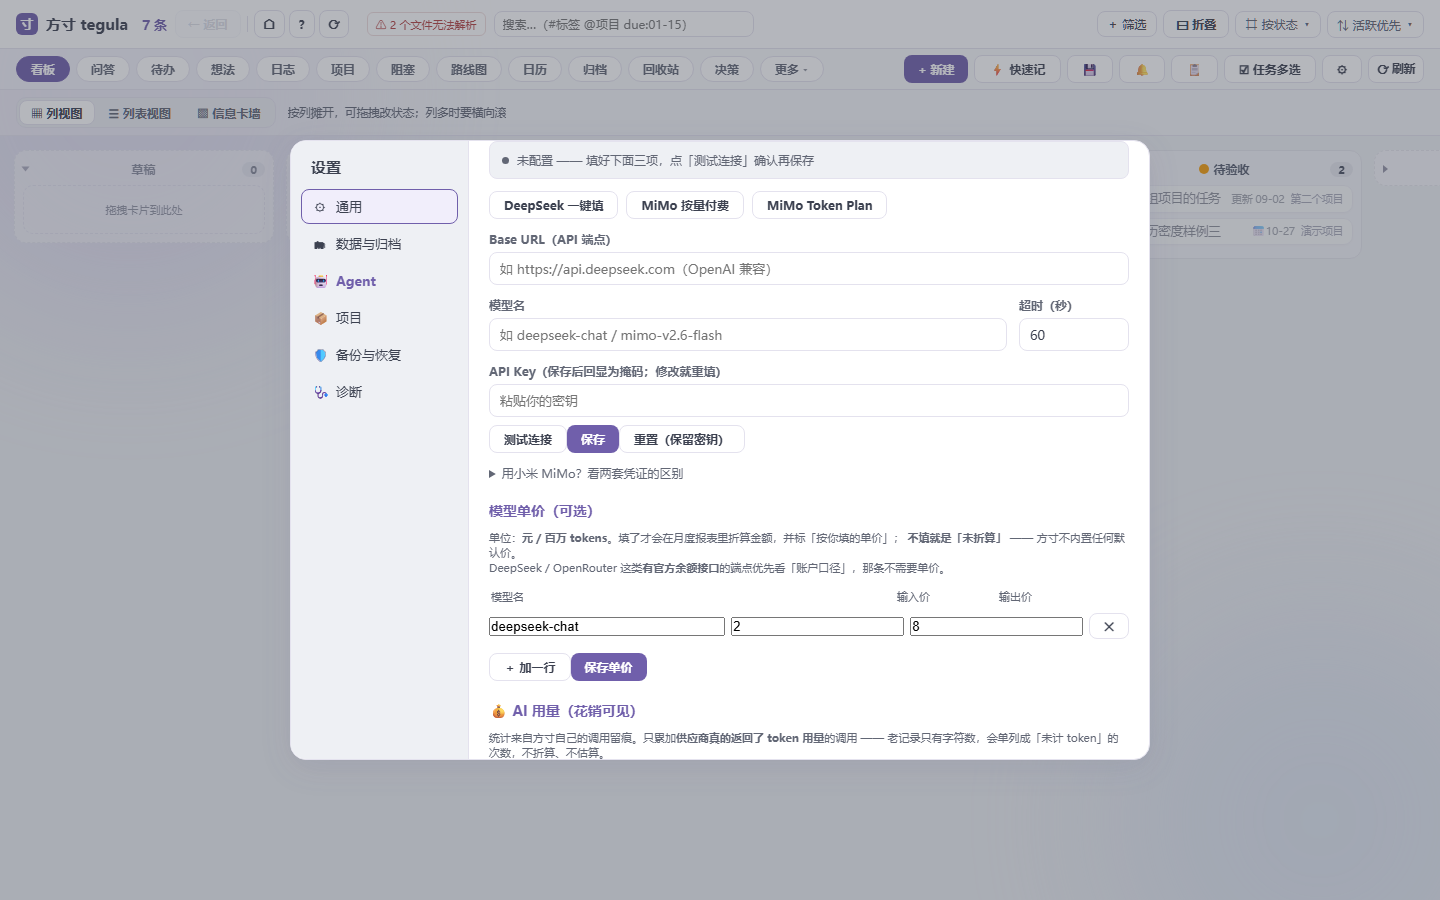
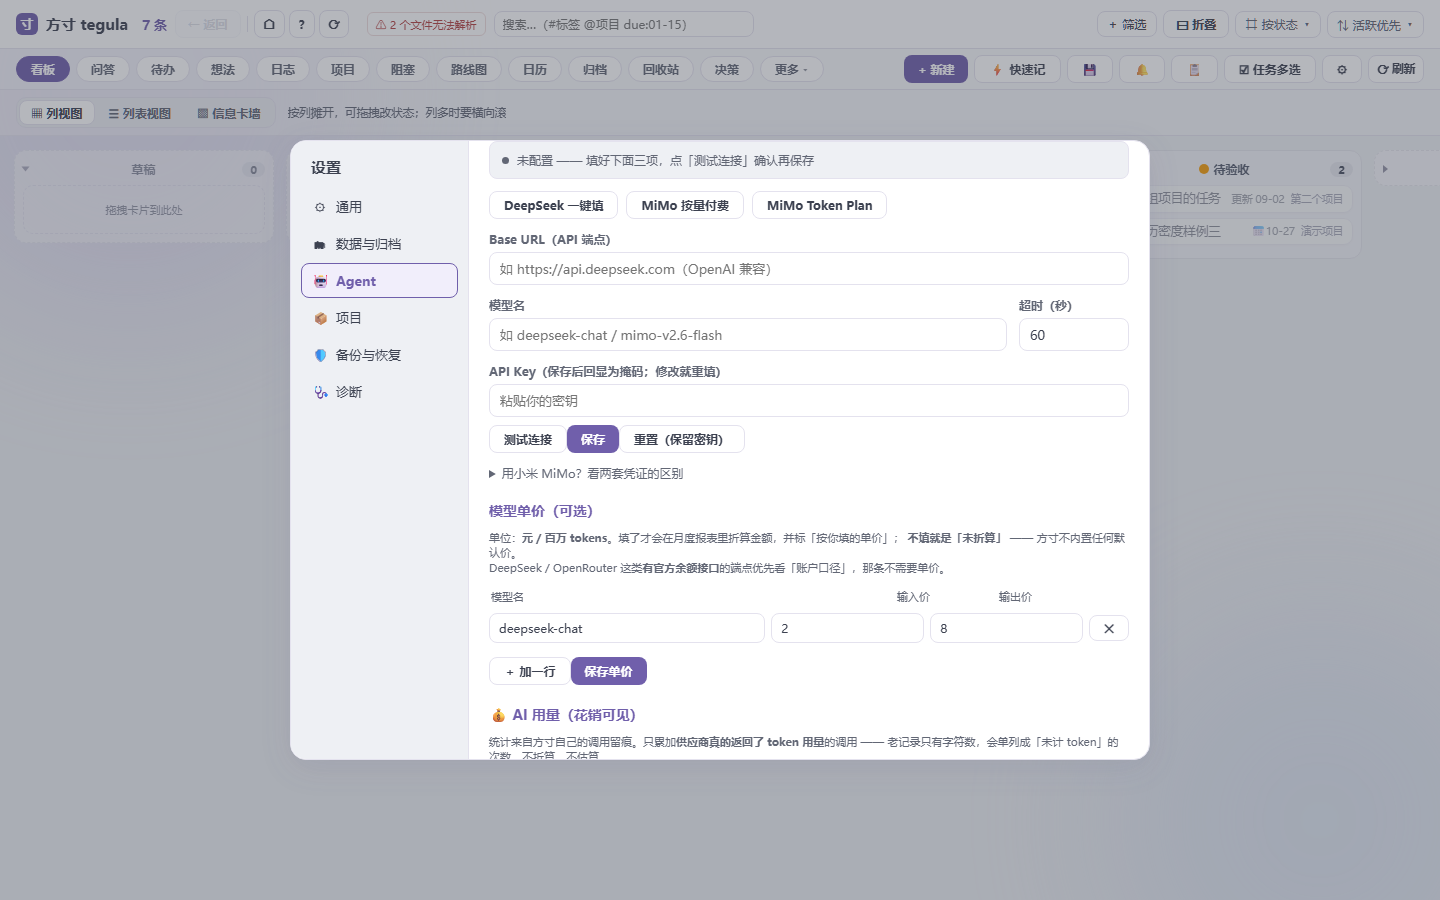
fix(ui): 补表单控件全局基线外观（模型单价三个框裸奔），并立守卫防第四次

Changed region(s): [[0.3438, 0.6844, 0.7812, 0.84]]

diff --git a/desktop/src/renderer/App.vue b/desktop/src/renderer/App.vue
@@ -12068,6 +12068,26 @@ button:active:not(:disabled) { transform: translateY(1px) scale(.98); }
 :where(input:not([type='checkbox']):not([type='radio']), textarea):focus {
   border-color: var(--accent); box-shadow: 0 0 0 3px var(--accent-soft);
 }
+/* ── 表单控件**基线外观**（2026-10-27）────────────────────────────────
+   全站此前只有上面那条 `:focus` 有 :where 兜底，**常态外观全靠各自局部选择器补** ——
+   于是每新增一块表单就漏一次：模型通道那四个框、模型单价那三个框都裸奔过。
+   暮雨原话：「这个问题在整个项目里应该出现过三次以上了，说明没吸取教训」。
+   这里补**只含外观、不含布局**的基线（不写 width / display / margin，交给各局部决定）。
+   用 :where() 让特异性恒为 0 → 任何局部规则都能盖住它，不会打乱既有排版。
+   checkbox / radio / file / range / color 一律排除（它们有各自的原生语义，撑成圆角框就毁了）。 */
+:where(input:not([type='checkbox']):not([type='radio']):not([type='file']):not([type='range']):not([type='color']),
+       textarea,
+       select) {
+  padding: 6px 9px;
+  font-size: 12px;
+  font-family: inherit;
+  color: var(--ink);
+  background: #fff;
+  border: 1px solid var(--border);
+  border-radius: 8px;
+  outline: none;
+  box-sizing: border-box;
+}
 
 /* 装饰光斑：**保留视觉，只改合成策略**（2026-09-25 用户第 4 条 + 第 1/3/9 条）。
    两个 460/420px 的元素挂着 blur(70px) —— 高斯模糊是最贵的栅格化操作之一，
